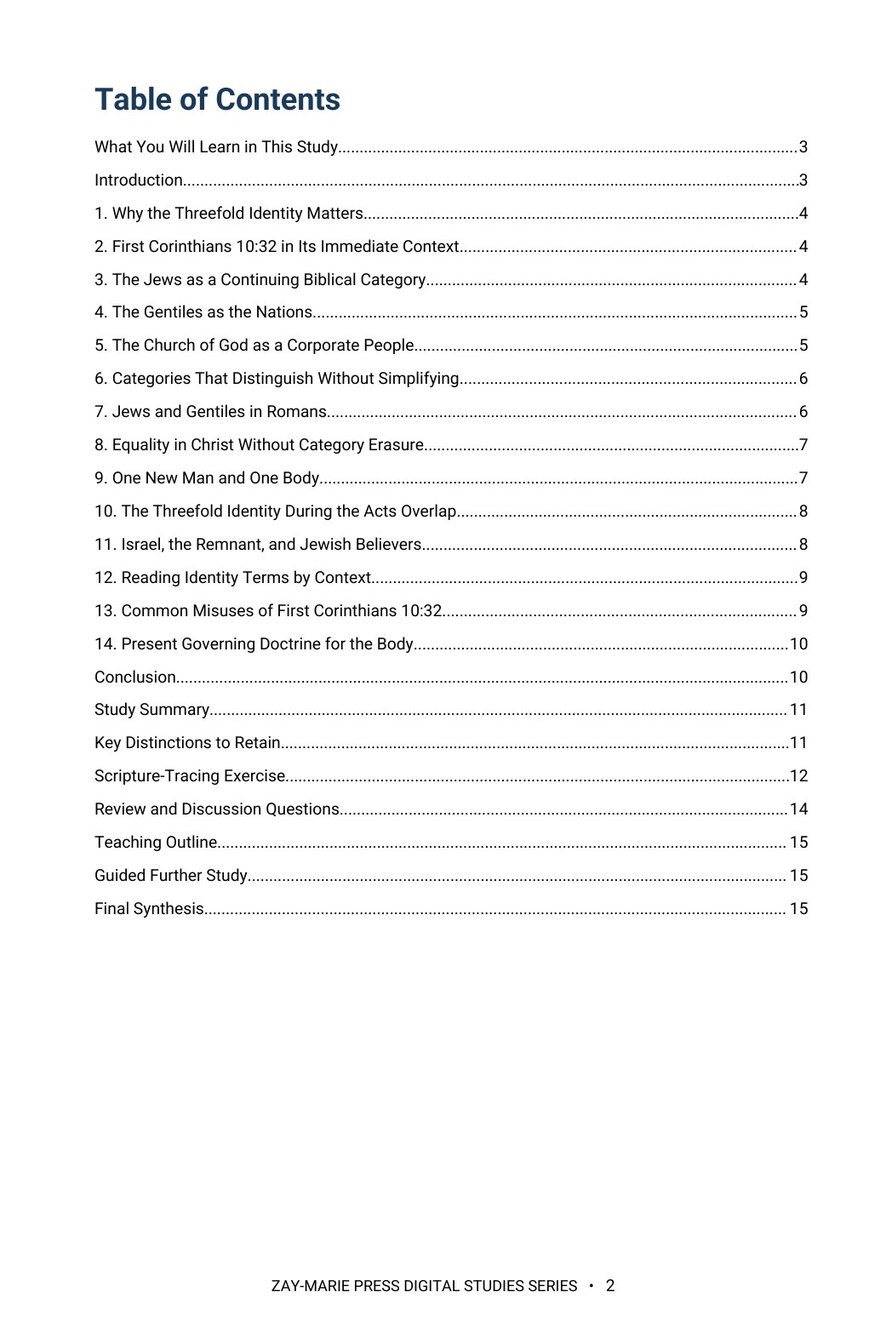
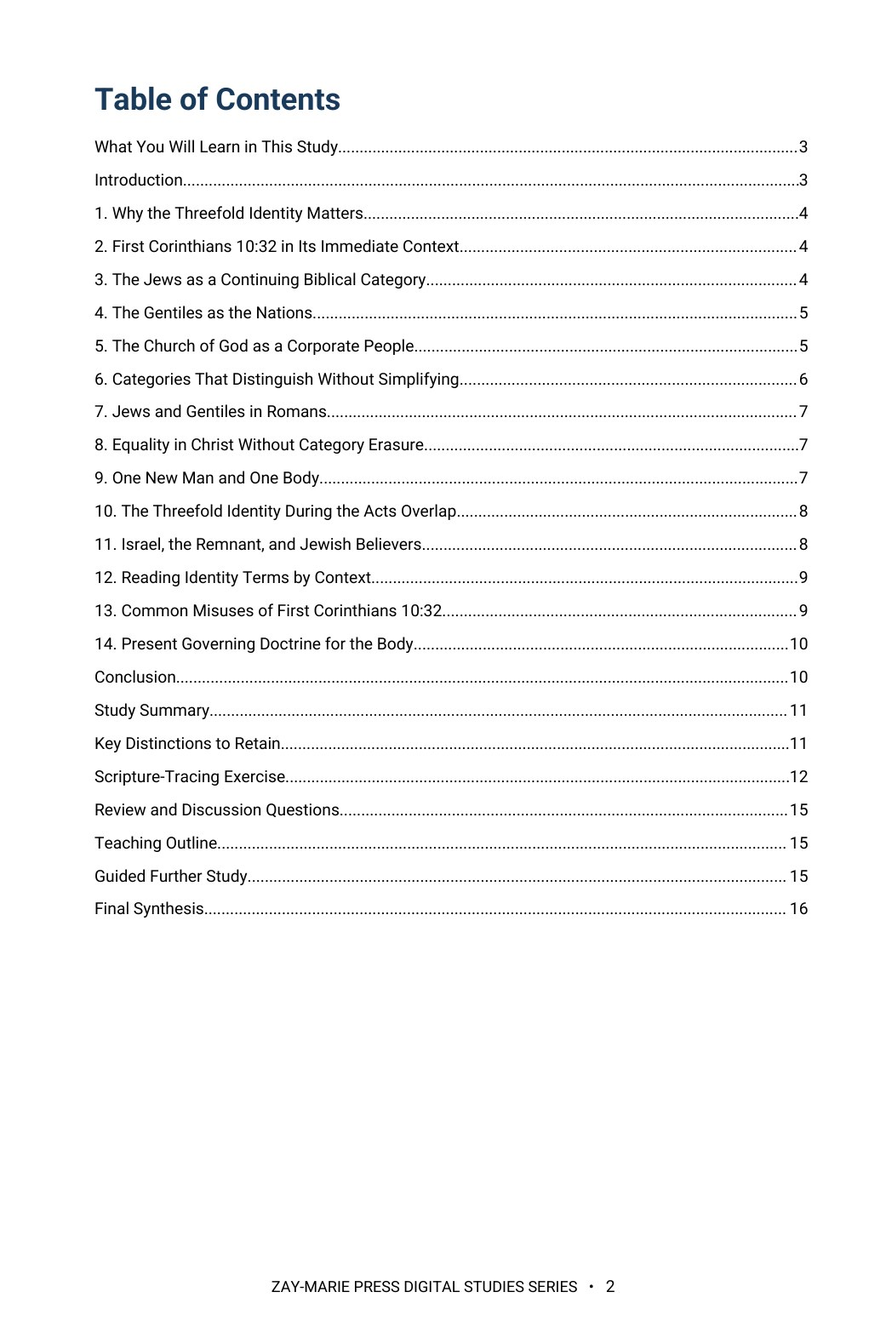
Retrofit Study 36 to the doctrinal upgrade: website text, previews; retrofit plan v1.4, audit v1.97
Claude-Session: https://claude.ai/code/session_013kzJPyMkodVfrxEZGjk3me

diff --git a/study-36-jews-gentiles-and-the-church-of-god.html b/study-36-jews-gentiles-and-the-church-of-god.html
@@ -3,10 +3,10 @@
 .study-detail-page{background:#fff;color:#252525}.detail-hero{background:linear-gradient(135deg,#f8f5ec,#e3ece2);padding:58px 0}.detail-hero-grid{display:grid;grid-template-columns:minmax(250px,.72fr) minmax(0,1.28fr);gap:58px;align-items:center}.detail-cover{max-width:390px;margin:auto}.detail-cover img{display:block;width:100%;height:auto;box-shadow:0 14px 36px rgba(8,45,69,.18)}.detail-hero h1{font-size:clamp(2.7rem,5vw,4.7rem);line-height:1.02;margin:8px 0 10px;color:#143823}.detail-subtitle{font-family:Georgia,serif;font-size:1.35rem;font-weight:700;color:#082d45;margin:0 0 7px}.detail-kicker{font-family:Georgia,serif;font-style:italic;font-size:1.05rem;color:#4a4a44;margin:0 0 22px}.detail-copy{font-size:1.08rem;line-height:1.65;max-width:760px}.detail-buyline{display:flex;align-items:center;gap:18px;flex-wrap:wrap;margin-top:25px}.detail-price{font-family:Georgia,serif;font-size:2rem;font-weight:700;color:#143823}.detail-format,.preview-card .page-no{font-family:Arial,sans-serif;font-size:.76rem;font-weight:700;letter-spacing:.1em;text-transform:uppercase;color:#176b3a}.detail-button{display:inline-block;background:#176b3a;color:#fff;padding:13px 22px;font-family:Arial,sans-serif;font-size:.8rem;font-weight:700;letter-spacing:.07em;text-transform:uppercase}.detail-button.pending{opacity:.72;cursor:default}.detail-section{padding:66px 0}.detail-section.soft{background:#f6f7f2}.detail-section.cream{background:#faf8f2}.detail-section h2{color:#143823;margin:6px 0 18px;font-size:clamp(2rem,3.4vw,3rem)}.detail-section .lead{max-width:920px;font-size:1.1rem;line-height:1.62}.study-distinction{max-width:920px;margin-top:28px;margin-bottom:28px;padding:26px 28px;background:#fff;border:1px solid #d8d1bf;border-left:4px solid #b8871c}.study-distinction h3{margin:0 0 10px;color:#143823}.study-distinction p{margin:0 0 14px;line-height:1.62}.study-distinction a{font-family:Arial,sans-serif;font-weight:700;color:#176b3a;text-decoration:none}.study-points{display:grid;grid-template-columns:repeat(3,1fr);gap:18px;margin-top:28px;margin-bottom:28px}.study-point,.scripture-card,.preview-card,.include-item{background:#fff;border:1px solid var(--line);text-align:left}.study-point{border-top:3px solid #176b3a;padding:22px}.study-point h3{color:#143823;margin:0 0 8px;font-size:1.2rem}.study-point p,.scripture-card p,.preview-card p,.include-item p{margin:0;line-height:1.55}.scripture-grid{display:grid;grid-template-columns:repeat(4,1fr);gap:14px;margin-top:24px;margin-bottom:24px}.scripture-card{padding:22px 20px;color:#143823}.scripture-card h3{margin:0 0 9px;font-family:Georgia,serif;font-size:1rem;line-height:1.35}.scripture-card p{font-size:.94rem;color:#45453f}.excerpt{max-width:900px;margin:28px auto;border-left:4px solid #b8871c;padding:10px 0 10px 28px}.excerpt blockquote{font-family:Georgia,serif;font-size:clamp(1.45rem,2.5vw,2rem);line-height:1.45;color:#143823;margin:0 0 16px}.excerpt p{line-height:1.6;margin:0}.preview-grid{display:grid;grid-template-columns:repeat(2,1fr);gap:20px;margin-top:28px;margin-bottom:28px}.preview-card{padding:18px;min-height:210px;box-shadow:0 7px 20px rgba(20,40,25,.05)}.preview-image-link{display:block;margin:0 0 18px}.preview-image-link img{display:block;width:100%;height:auto;border:1px solid #d8d1bf;box-shadow:0 8px 22px rgba(20,40,25,.1);transition:transform .18s ease,box-shadow .18s ease}.preview-image-link:hover img{transform:translateY(-2px);box-shadow:0 11px 28px rgba(20,40,25,.16)}.preview-card h3{color:#143823;margin:8px 0 10px}.preview-instruction{margin:10px 0 0;font-family:Arial,sans-serif;font-size:.78rem;letter-spacing:.04em;color:#5b5b55}.includes-grid{display:grid;grid-template-columns:repeat(4,1fr);gap:14px;margin-top:26px}.include-item{padding:22px 20px;color:#143823}.include-item h3{margin:0 0 9px;font-family:Arial,sans-serif;font-size:.86rem;line-height:1.35;letter-spacing:.02em}.include-item p{font-size:.94rem;color:#45453f}.final-buy{background:#082d45;color:#fff;border-top:4px solid #b8871c;padding:42px 48px;display:grid;grid-template-columns:1fr auto;gap:36px;align-items:center}.final-buy .eyebrow,.final-buy h2,.final-buy .detail-price{color:#fff}.final-buy h2{margin:7px 0 6px}.final-buy p{margin:0}.final-offer{text-align:center}.back-link{display:inline-block;margin-top:18px;color:#143823;font-family:Arial,sans-serif;font-weight:700;text-decoration:none}.preview-lightbox{position:fixed;inset:0;z-index:10000;display:none;align-items:flex-start;justify-content:center;background:rgba(8,22,16,.88);padding:24px;overflow:auto}.preview-lightbox.open{display:flex}.preview-lightbox img{display:block;width:auto;height:auto;max-width:none;box-shadow:0 18px 55px rgba(0,0,0,.4);background:#fff}.preview-lightbox-close{position:fixed;top:18px;right:24px;z-index:10001;width:46px;height:46px;border:1px solid rgba(255,255,255,.65);border-radius:50%;background:rgba(0,0,0,.55);color:#fff;font:32px/1 Arial,sans-serif;cursor:pointer}@media(max-width:900px){.detail-hero-grid{grid-template-columns:1fr;gap:34px}.detail-cover{max-width:330px}.study-points{grid-template-columns:repeat(2,1fr)}.scripture-grid,.includes-grid{grid-template-columns:repeat(2,1fr)}.preview-grid,.final-buy{grid-template-columns:1fr}.final-offer{text-align:left}}@media(max-width:560px){.detail-hero{padding:42px 0}.detail-section{padding:50px 0}.study-points,.scripture-grid,.includes-grid{grid-template-columns:1fr}.final-buy{padding:32px 24px}.detail-buyline{align-items:flex-start;flex-direction:column;gap:8px}.preview-lightbox{padding:58px 10px 24px}.preview-lightbox img{width:100%;max-width:100%;height:auto}}</style></head><body class="study-detail-page">
 <header class="site-header"><div class="wrap nav"><a class="logo" href="index.html" aria-label="Zay-Marie Press home"><img src="assets/zay-marie-press-logo-hq.png" alt="Zay-Marie Press" width="420" height="238"></a><button class="menu-toggle" type="button" aria-expanded="false" aria-controls="primary-nav">MENU</button><nav aria-label="Primary navigation" class="primary-nav" id="primary-nav"><a href="index.html">HOME</a><a href="books.html">BOOKS</a><a href="series.html">SERIES</a><a class="active" aria-current="page" href="digital-studies.html">DIGITAL STUDIES</a><a href="biblical-hermeneutics-course.html">COURSE</a><a href="about.html">ABOUT</a><a href="resources.html">RESOURCES</a><a href="contact.html">CONTACT</a></nav></div></header><main>
 <section class="detail-hero"><div class="wrap detail-hero-grid"><div class="detail-cover"><picture><source srcset="assets/study-36-cover.webp" type="image/webp"><img src="assets/study-36-cover.jpg" alt="Jews, Gentiles, and the Church of God cover"></picture></div><div><div class="eyebrow">STUDY 36 · DIGITAL STUDY</div><h1>Jews, Gentiles, and the Church of God</h1><p class="detail-subtitle">The Threefold Identity of 1 Corinthians 10:32</p><p class="detail-kicker">A focused examination of historical origin, corporate standing, and responsible conduct before all people</p><p class="detail-copy">First Corinthians 10:32 names Jews, Gentiles, and the Church of God within Paul’s instruction about liberty, conscience, idolatry, and avoiding needless offense. What do these categories identify, and how do they relate?</p><p class="detail-copy">This study distinguishes historical and national origin from corporate standing in Christ. It explains equal membership in one Body without erasing Israel, the nations, or the distinct apostolic lines operating during the Acts overlap.</p><div class="detail-buyline"><span class="detail-price">$5.99</span><span class="detail-format">Digital PDF · 16 Pages</span><span class="detail-button pending" aria-disabled="true">Checkout Coming Soon</span></div></div></div></section>
-<section class="detail-section"><div class="wrap"><div class="eyebrow">ABOUT THIS STUDY</div><h2>Three Meaningful Categories, One Practical Command</h2><p class="lead">Paul’s command works because Jews, Gentiles, and the Church of God are recognizable categories. Yet the verse is not a simplistic census of mutually exclusive social identities. Paul remained an Israelite by descent while belonging to Christ, and Gentile believers retained their historical origin while receiving the same corporate standing in the Body.</p><p class="lead">The study therefore asks what question each designation answers. Historical origin, national relation, corporate standing, audience, and programmatic setting must be distinguished before the verse can be applied responsibly.</p><p class="lead">This is not a study of the broad Israel–Body distinction itself, which Study 4 establishes across every point of contrast, nor of the disputed identity expressions tested in Study 35, such as “Israel of God” and “spiritual Israel.” Its task is narrower: to fix 1 Corinthians 10:32’s three named categories to Paul’s own case — an unchanged Israelite by descent who also stands in the Body — and to show that a single verse naming three groups was never meant to erase what distinguishes them.</p><div class="study-distinction"><h3>How These Studies Relate</h3><p>Study 36 reads Jews, Gentiles, and the Church of God in 1 Corinthians 10:32 and distinguishes historical origin from standing in one Body.</p><p><a href="study-04-israel-and-the-body-of-christ.html">Study 4 — Israel and the Body of Christ</a> Set these three categories within the broader corporate distinction between Israel and the Body; this explains why origin and present membership answer different questions.</p><p><a href="study-35-who-is-the-israel-of-god.html">Study 35 — Who Is the Israel of God?</a> Test contested labels such as ‘Israel of God’ against Paul’s categories instead of using one debated phrase to erase distinctions elsewhere.</p><p class="connection-guide-link"><a href="study-connections.html#study-36">Explore the full connection guide for Study 36 →</a></p></div></div></section>
+<section class="detail-section"><div class="wrap"><div class="eyebrow">ABOUT THIS STUDY</div><h2>Three Meaningful Categories, One Practical Command</h2><p class="lead">Paul’s command works because Jews, Gentiles, and the Church of God are recognizable categories. Yet the verse is not a simplistic census of mutually exclusive social identities. Paul remained an Israelite by descent while belonging to Christ, and Gentile believers retained their historical origin while receiving the same corporate standing in the Body.</p><p class="lead">The study therefore asks what question each designation answers. Historical origin, national relation, corporate standing, audience, and programmatic setting must be distinguished before the verse can be applied responsibly.</p><p class="lead">This is not a study of the broad Israel–Body distinction itself, which Study 4 establishes across every point of contrast, nor of the disputed identity expressions tested in Study 35, such as “Israel of God” and “spiritual Israel.” Its task is narrower: to fix 1 Corinthians 10:32’s three named categories to Paul’s own case — a Jew by descent who stands in the Body as a member of it, not as Israel — and to show that a single verse naming three groups was never meant to erase what distinguishes them.</p><div class="study-distinction"><h3>How These Studies Relate</h3><p>Study 36 reads Jews, Gentiles, and the Church of God in 1 Corinthians 10:32 and distinguishes historical origin from standing in one Body.</p><p><a href="study-04-israel-and-the-body-of-christ.html">Study 4 — Israel and the Body of Christ</a> Set these three categories within the broader corporate distinction between Israel and the Body; this explains why origin and present membership answer different questions.</p><p><a href="study-35-who-is-the-israel-of-god.html">Study 35 — Who Is the Israel of God?</a> Test contested labels such as ‘Israel of God’ against Paul’s categories instead of using one debated phrase to erase distinctions elsewhere.</p><p class="connection-guide-link"><a href="study-connections.html#study-36">Explore the full connection guide for Study 36 →</a></p></div></div></section>
 <section class="detail-section soft"><div class="wrap"><div class="eyebrow">WHAT YOU’LL STUDY</div><h2>Read Every Identity Term at the Right Level</h2><div class="study-points"><div class="study-point"><h3>The Immediate Context</h3><p>Place 1 Corinthians 10:32 within Paul’s teaching on liberty, conscience, idolatry, edification, and avoiding needless offense.</p></div><div class="study-point"><h3>Jews and Gentiles</h3><p>Define Israel’s continuing historical category and the nations outside Israel without making natural origin a basis of spiritual rank.</p></div><div class="study-point"><h3>The Church of God</h3><p>Identify the called corporate people addressed in Paul’s Mystery apostleship and their unity as one Body in Christ.</p></div><div class="study-point"><h3>Origin and Standing</h3><p>Compare what Paul says about Jewish or Gentile background with what he says about the believer’s corporate standing.</p></div><div class="study-point"><h3>Equality Without Erasure</h3><p>Read Galatians 3 and Ephesians 2 without turning equal standing into the disappearance of every historical or programmatic distinction.</p></div><div class="study-point"><h3>The Acts Overlap</h3><p>Trace how Acts 9–28 and Galatians 2:7–9 frame the Prophecy and Mystery programs and the assignments of Peter and Paul.</p></div></div></div></section>
 <section class="detail-section cream"><div class="wrap"><div class="eyebrow">KEY SCRIPTURES</div><h2>Follow Paul’s Categories Across the Argument</h2><div class="scripture-grid"><div class="scripture-card"><h3>1 Corinthians 8–10</h3><p>Liberty is governed by love, conscience, edification, God’s glory, and another person’s spiritual good.</p></div><div class="scripture-card"><h3>1 Corinthians 10:32</h3><p>Jews, Gentiles, and the Church of God are named within one practical command.</p></div><div class="scripture-card"><h3>1 Corinthians 12:12–13</h3><p>Jewish and Gentile believers are identified by one Spirit into one Body.</p></div><div class="scripture-card"><h3>Romans 3:9, 29–30</h3><p>Jews and Gentiles share guilt and the need for justification without losing their designations.</p></div><div class="scripture-card"><h3>Romans 9–11</h3><p>Israel, the faithful remnant, and Gentiles remain distinguishable within Paul’s programmatic argument.</p></div><div class="scripture-card"><h3>Galatians 3:26–29</h3><p>Equal standing in Christ removes status-based superiority without erasing every distinction.</p></div><div class="scripture-card"><h3>Ephesians 2:11–18</h3><p>Christ reconciles both in one new man and one Body rather than turning either former group into the other.</p></div><div class="scripture-card"><h3>Galatians 2:7–9</h3><p>Peter and Paul represent two distinct apostolic lines operating concurrently during the Acts overlap.</p></div></div></div></section>
-<section class="detail-section"><div class="wrap"><div class="eyebrow">FROM THE STUDY</div><h2>Historical Origin and Corporate Standing</h2><div class="excerpt"><blockquote>“A Jewish believer may retain Jewish descent while possessing a new corporate identity in the Body. A Gentile believer may retain Gentile origin while possessing the same standing in Christ.”</blockquote><p>The descriptions answer related but different questions. Equality in Christ removes every claim to spiritual superiority without making Israel, the nations, or the Body meaningless categories.</p></div></div></section>
+<section class="detail-section"><div class="wrap"><div class="eyebrow">FROM THE STUDY</div><h2>Historical Origin and Corporate Standing</h2><div class="excerpt"><blockquote>“A Jewish believer may retain Jewish descent as a historical fact while possessing a new corporate identity in the Body, and is not Israel. A Gentile believer may retain Gentile origin while possessing the same standing in Christ.”</blockquote><p>The descriptions answer related but different questions. Equality in Christ removes every claim to spiritual superiority without making Israel, the nations, or the Body meaningless categories.</p></div></div></section>
 <section class="detail-section soft"><div class="wrap"><div class="eyebrow">A LOOK INSIDE</div><h2>Preview the Study Before You Purchase</h2><p class="preview-instruction">Click any page to enlarge it for reading.</p><div class="preview-grid"><div class="preview-card"><a class="preview-image-link" data-preview-lightbox href="assets/study-36-page-2.jpg"><img src="assets/study-36-page-2.jpg" alt="Study 36 interior preview — page 2, table of contents"></a><div class="page-no">Page 2</div><h3>Table of Contents</h3><p>See the study’s full structure and scope at a glance.</p></div><div class="preview-card"><a class="preview-image-link" data-preview-lightbox href="assets/study-36-page-3.jpg"><img src="assets/study-36-page-3.jpg" alt="Study 36 interior preview — page 3, learning outcomes, Study Goal, and Study Outline"></a><div class="page-no">Page 3</div><h3>Learning Outcomes and Study Goal</h3><p>Begin with the questions, passages, and interpretive controls that govern the study.</p></div><div class="preview-card"><a class="preview-image-link" data-preview-lightbox href="assets/study-36-page-5.jpg"><img src="assets/study-36-page-5.jpg" alt="Study 36 interior preview — page 5, the Jews, the Gentiles, and a category table"></a><div class="page-no">Page 5</div><h3>The Jews and the Gentiles in Paul’s Usage</h3><p>See how each term is defined from Paul’s own wording and set beside what it does not guarantee.</p></div></div></div></section>
 <section class="detail-section"><div class="wrap"><div class="eyebrow">WHAT’S INCLUDED</div><h2>A Focused Study Built for<br>Doctrinal Precision and Responsible Application</h2><div class="includes-grid"><div class="include-item"><h3>Focused Biblical Study</h3><p>A sustained examination of 1 Corinthians 10:32 and the identity questions that surround Paul’s threefold designation.</p></div><div class="include-item"><h3>Fourteen Teaching Sections</h3><p>Move from the immediate context through Romans, Galatians, Ephesians, the Acts overlap, and present doctrine.</p></div><div class="include-item"><h3>Contextual Exegesis</h3><p>Examine named audiences, argument, historical origin, corporate standing, and programmatic setting.</p></div><div class="include-item"><h3>High-Contrast Tables</h3><p>Compare categories, questions, designations, and controls without simplifying or collapsing identity.</p></div><div class="include-item"><h3>Scripture-Tracing Exercise</h3><p>Trace Jew, Gentile, Church of God, one Body, remnant, and apostolic line across the principal passages.</p></div><div class="include-item"><h3>Review Questions</h3><p>Test the difference between equality, origin, standing, audience, participation, and corporate identity.</p></div><div class="include-item"><h3>Teaching Outline</h3><p>Use a ready framework for teaching the verse, defining the categories, testing unity language, and applying the doctrine.</p></div><div class="include-item"><h3>Guided Further Study</h3><p>Grouped investigations support deeper work in Corinthians, Romans, Galatians, Ephesians, and the Acts overlap.</p></div></div></div></section>
 <section class="detail-section cream"><div class="wrap"><div class="final-buy"><div><div class="eyebrow">STUDY 36 · DIGITAL STUDY</div><h2>Jews, Gentiles, and the Church of God</h2><p>Digital PDF · 16 Pages · For personal use</p></div><div class="final-offer"><div class="detail-price">$5.99</div><span class="detail-button pending" aria-disabled="true">Checkout Coming Soon</span></div></div><a class="back-link" href="digital-studies.html">← Back to All Digital Studies</a></div></section><section class="study-method-course-bridge"><div class="wrap"><div class="study-method-course-panel"><div><div class="eyebrow">BUILD THE INTERPRETIVE METHOD</div><h2>Want More Than a Focused Study?</h2><p>Digital Studies examine particular biblical subjects and difficult passages. The 40-lesson Biblical Hermeneutics course teaches a complete, repeatable method for establishing meaning in context, determining proper assignment, and making responsible application.</p></div><a class="btn btn-primary" href="biblical-hermeneutics-course.html">BIBLICAL HERMENEUTICS COURSE</a></div></div></section></main>

diff --git a/CLAUDE.md b/CLAUDE.md
@@ -14,7 +14,7 @@ These are kept in the repo at `controlling-documents/` and are the current versi
 - **`controlling-documents/Zay-Marie_Press_Digital_Studies_Master_Standard_v1.41.pdf`** — Master Standard v1.41 (an editable `.docx` copy sits beside the PDF). Governs study structure, cover, PDF assembly, website package and publication (includes §16 Individual Study Preview Selection Standard). §16 fixes the preview set at exactly three pages: Table of Contents, What You Will Learn, and one further page of real substance that does not give away the study's thesis. As of v1.19, §2 (Forward Cover System) adds a Cover Art Brief step: Claude drafts a detailed written cover art description (image concept, composition, palette, lighting, symbolic content) for the publisher to hand to the illustrator, before the illustrator produces artwork — see Approval Checkpoint 3 below. As of v1.20, §6 (Body-Content Standard) fixes exact interior spacing values: body paragraphs 6pt space-after / 0pt space-before / 1.08 line spacing; Heading 1 14pt space-before / 8pt space-after; Heading 2 10pt space-before / 5pt space-after. As of v1.21, §9 (Content-Depth and Page-Length Standard) fixes the substantive-interior page count at exactly 15 pages, replacing the prior 13–17 page range; matching references updated in the Page-Count Control note (§3) and Stages 2 and 4 of the Study Development and Approval Workflow (§14). As of v1.22, §18 (About This Study — Related-Study Distinction Standard, originally added as §17 and renumbered by v1.24) requires a second paragraph in every study's About This Study section, placed before the "How These Studies Relate" box: it names the specific neighbouring studies a reader might confuse this one with, states what ground each one covers that this study doesn't (or vice versa), and closes with the single narrower question this study alone answers — see the "About This Study" bullet below. Governs new studies going forward; existing studies get it when reopened or when the publisher directs a retrofit. As of v1.23, §13 (Tables Symbols and Contrast Standard) changes the table-header treatment from dark navy to Slate Blue (#3B6E91) with high-contrast light text retained; the border-color cross-reference in the same section is updated to match. Applies to all studies going forward. As of v1.24, new §17 (Preview-Page Interpretive-Outcome Standard) codifies the publisher's 2026-09-28 preview-page conclusion-spoiler directive (see the section below) as a Master Standard requirement: preview pages must state interpretive outcomes and name the textual markers the reader will trace, never the study's doctrinal conclusion. Adding it renumbered the former §17/§18/§19 to §18 (About This Study), §19 (Locked Status), and §20 (Version History). As of v1.25 (publisher directive, 2026-09-28), §5 (Table of Contents Standard) requires Arabic numerals only — Roman numerals are never used in a Table of Contents — and a single flat list on one left-aligned axis: What You Will Learn in This Study, Introduction, the teaching sections numbered exactly as in the body, then Conclusion through Final Synthesis; Study Goal and Study Outline are not TOC entries. As of v1.26 and v1.27 (publisher directive, 2026-09-30), §8 (renamed Color and Typography Control) carries the Interior Typeface Standard: every Digital Study interior and Doctrinal Packet, headings included, is set in **Roboto** in four true faces (Regular, Italic, Bold, Bold Italic; static files; lining numerals), with no other or fallback font embedded. v1.26 first specified EB Garamond; the publisher replaced it with Roboto in v1.27 after a Study 2 test build. It applies to all studies past, present and future, and to Doctrinal Packets; Stages 3 and 4 of §14 require it and a `pdffonts` check. Existing studies move to it when reopened or when the publisher directs. The static Roboto files and the build recipe are in `fonts/` (see `fonts/README.md`); the Framework carries the rule as PAM Rule 6 and a dated Section 4 (continued) entry. The v1.26/v1.27 files were rebuilt from the publisher's v1.13 DOCX (Sections 1–2) plus the v1.25 text. As of v1.28 (publisher directive, 2026-09-30): §4 requires exactly five callouts per study, all boxed (light-blue box, 1 pt dark navy border, bold uppercase navy title; extra source callouts become body paragraphs with a bold run-in lead, wording unchanged); §10 places the copyright notice only in the end imprint, with no front copyright page; §13 makes table body rows plain white under Slate Blue headers. As of v1.29 (publisher directive, 2026-09-30), §5 sets Table of Contents entries at the body-paragraph spacing (6 pt after, 1.08 line spacing) as first shown in Study 5, for studies built from Study 6 forward; Studies 1–5 and 9 keep their current TOC spacing unless reopened. As of v1.30 (publisher directive, 2026-09-30), §6 sets Heading 1 (numbered major sections) at 12 pt space-before and 8 pt space-after, replacing 14 pt space-before, as compared side by side on Study 6 page 5; it applies to studies built from Study 6 forward, and Studies 1–5 and 9 (built at 14 pt) are not reopened for it. Heading 2 (10/5) and body paragraphs (6 pt after, 1.08) are unchanged. As of v1.31 (publisher directive, 2026-10-01), new §19 (Catalog Category Standard) fixes the five catalog categories, the ordered decision procedure, the precedents, the 71 final assignments and the cover-label forms (working copy and version history in `controlling-documents/Digital_Studies_Category_Standard_v1.1.md`); Locked Status and Version History moved to §20 and §21. As of v1.32 (publisher directive, 2026-10-01), the upper-right cover label must be the exact name of the study's catalog category (§2 Cover Architecture and §19 Cover Labels); the shortened and legacy labels RIGHT DIVISION, PROPHECY, DOCTRINE, INTERPRETATION and BIBLICAL DOCTRINE are retired and all 71 covers were re-lettered. As of v1.33 (publisher directive, 2026-10-01), new §20 (Doctrinal Drafting Standard) carries PAM Rules 7–10 from the Framework so settled rulings are applied without being asked again: identity wording ("the Israel of God" = believing Jews within the Body, Israel by identity; never "believing Israel" alone; never a remnant beside or outside the Body in the present administration; required clarifier "This speaks of identity, not program membership; the remnant is ethnic-covenantal, and believing Jews are gathered into the Body during the Mystery administration"; Gentiles participate spiritually, never called Israel or "spiritual Israel"); the anchoring-sentence rule for books the PAM does not assign (Hebrews, Revelation, James, 1 Peter, 2 John; Philippians, 1 Thessalonians, 2 Timothy; Gal 2:1–10 report-only); standing wording for the Acts divisions, "the 'one taken, one left' passages", Eph 2:14 "abolished for the Body", judgment and related rulings; and the review procedure (conforming wording is applied and noted in one line, and only a new or uncovered passage is reported for a ruling). Locked Status and Version History moved to §21 and §22. As of v1.34 (publisher directive, 2026-10-01), Rule 7 adds the overlap-period rule: Peter's believing company and the circumcision apostleship during Acts 9–28 may be described as continuing under the Prophecy Program only with the clarification "During the overlap, the circumcision apostleship ministers to Israel under the Prophecy Program; believing Jews are gathered into the Body through Paul's ministry, and this speaks of identity, not program membership" (program membership and corporate identity are not the same question; no believing Israelite is placed outside the Body after Acts 9). As of v1.35 (publisher directive, 2026-10-01), §20 adds Rule 11: Paul's fillings, signs and miraculous events in Acts 9–28 are overlap phenomena, reported from the text and not assigned to a single program; they occur in settings shaped by Israel's Prophecy Program, but Paul's participation does not convert them into Prophecy Program content or make them Mystery content (standing wording: "These are recorded in settings shaped by Israel's Prophecy Program, which remained operative throughout Acts 9–28 even as the Mystery Program began. Acts 9–28 is the overlap; where Paul or his companions are the ones filled or working signs, the study reports the text and does not assign the event to a single program."; Acts table column title "The Spirit's Activity Recorded in Acts"; speaker identity is not program identity, and historical participation is not doctrinal obligation). Rule 10 refers to Rules 1–9 and 11. As of v1.36 (publisher directive, 2026-10-01), §20 adds Rule 12: where the PAM does not assign a book or passage, the study may use the text for universal doctrinal truth without assigning the book to a program, and must include the anchoring sentence "The Framework does not assign this book; this reading rests on the passage's own audience markers and setting." (it extends Rule 8 to unassigned books and passages Rule 8 does not name); Rule 10 refers to Rules 1–9, 11 and 12. As of v1.41 (publisher directive, 2026-10-02), Rules 7 and 15 carry two approved standing sentences for the retrofit: overlap — "During the overlap, the circumcision apostleship ministers to Israel under the Prophecy Program, and Paul's gospel forms the Body; the two operate concurrently and never merge, transfer or absorb one another." (replaces the withdrawn "gathered into the Body" sentence); Galatians 3 — "The seed is prophetic fulfillment in Christ; the Body receives blessing through Christ alone, not through participation in the Abrahamic covenant." (replaces all older Abrahamic-participation language). As of v1.40 (publisher directive, 2026-10-02), Rules 7 and 17 add the ruling that a Jewish member of the Body is not Israel: Body by identity, new creation by ontology, non-Israel by corporate identity, non-prophetic by program membership, non-covenantal by blessing structure, heavenly by destiny; ethnicity is a historical fact with no covenantal or programmatic force once a person is in the Body. The Rule 7 line "Israel remains Israel; the ethnic distinction is kept" is replaced by "Israel remains Israel, and the Body is not Israel"; the Framework identity sections (§V, PAM definition 2) carry it too. As of v1.39 (publisher directive, 2026-10-02), §20 adds Rule 17 (The remnant and the Body during Acts 9–28), also written into the Framework §XIX: the remnant never becomes the Body and stays outside the Body, the Mystery Program, the heavenly calling and Pauline identity; the Body is formed only by Paul's gospel from Acts 9, is gathered in on belief and is not Israel or the remnant; no shared identity, membership, covenant, gospel, hope, Spirit ministry or destiny; the standing summary sentence ("During Acts 9–28, the remnant remains Israel's prophetic believing company, and the Body remains the Mystery new creation. They coexist historically but never merge in identity, membership, calling, covenant, gospel, hope, or destiny. Concurrency is operational, not transformational.") and the one-sentence relationship rule are used wherever the relationship is stated; Rule 10 now reads "Rules 1–9 and 11–17". As of v1.38 (publisher directive, 2026-10-02), §20 (Doctrinal Drafting Standard) is amended and extended to carry the Framework's doctrinal upgrade: Rules 7–10 are rewritten and Rules 13–16 are added (see the Framework entry above for the points and the withdrawn wordings); Rule 10 now reads "Rules 1–9 and 11–16"; Rule 8 no longer lists Revelation as unassigned. As of v1.37 (publisher directive, 2026-10-02), a new "Study 52 Reference Standard" subsection in §6 makes Study 52 (Sonship and Adoption) the **golden standard** for the format, structure and blue/black type balance of every Digital Study from Study 53 forward: navy (#1B3350) only on major-section headings (Roboto Bold 17 pt), callout titles (10 pt bold caps) and the "Study Outline" sub-heading (12 pt bold); everything else black Roboto Regular 9 pt; numbered subsections (1.1, 1.2 …) are body-weight black lines at body spacing, not navy headings (as in Studies 50, 51 and 52); about 1–2% of interior characters navy; the section order, five boxed callouts, KJV tables (Verse / KJV text / What to observe), Scripture-Tracing, Review, Teaching Outline, Guided Further Study, Final Synthesis and single end imprint on a 16-page build. Studies 1–51 are NOT retrofitted and stay as published; build every new study to Study 52's final approved PDF/DOCX as the visual reference, and do not set subsections in navy. The §6 Heading 2 line was clarified (10/5 applies to unnumbered sub-headings such as "Study Outline"). See §22 Version History in the document itself.
 - **`controlling-documents/Digital_Studies_Relationship_Map_v1.39.md`** — records each study's distinct subject, its related studies, the eight priced six-study collections, the Paul's Missionary Journeys cross-reference map, and the five primary catalog categories (currently version 1.39, covers Studies 1–71; update it as new studies publish, bump the version number, rename the file to match, and log the change in its own version-history table — mirroring the Master Standard's `_vX.Y` filename convention). Check a proposed topic against it before recommending or writing a new study. (2026-09-28: the file was missing from this repo despite this note referencing it; replaced from the publisher's copy and bumped v1.15→v1.25 in the same pass. If this note ever again points to a version not present under `controlling-documents/`, ask the publisher for a copy rather than proceeding without the check.)
 - **`controlling-documents/Digital_Studies_Category_Standard_v1.1.md`** — FINAL and binding (publisher, 2026-10-01): the rules for the five primary catalog categories (Foundations, Israel & Prophecy, Body of Christ, Passages, Doctrinal Themes), the ordered decision procedure for new studies, the precedents, all 71 fixed assignments, and the cover-label form for each category. Read it before placing any card or cover label. Do not ask the publisher where a study belongs; apply the procedure and state the result. Only the publisher changes a ruling; then bump this Standard's version and filename, re-letter the cover, and update the Relationship Map.
-- **`controlling-documents/Doctrinal_Upgrade_Retrofit_Plan_v1.3.md`** — working tracker for retrofitting Studies 1–59 to the 2026-10-02 doctrinal upgrade (Framework/PAM v1.1, Master Standard v1.40, Rules 7–17): withdrawn-wording search keys, impact tiers, waves and the per-study method. Read it before continuing the retrofit in any session; update status, bump the version and rename the file as work proceeds.
+- **`controlling-documents/Doctrinal_Upgrade_Retrofit_Plan_v1.4.md`** — working tracker for retrofitting Studies 1–59 to the 2026-10-02 doctrinal upgrade (Framework/PAM v1.1, Master Standard v1.40, Rules 7–17): withdrawn-wording search keys, impact tiers, waves and the per-study method. Read it before continuing the retrofit in any session; update status, bump the version and rename the file as work proceeds.
 - **`controlling-documents/Doctrinal_Packet_Standard_v0.3.md`** — Doctrinal Packet Standard (DRAFT; §7 approved). Governs the separate Doctrinal Packets product strand (5-page interpretive PDFs per Bible book — a print-friendly cover as page 1 plus 4 content pages, $2.99, KJV, pilot: Genesis, live at `packet-genesis.html`, hub `doctrinal-packets.html`; site pages say "5 Pages", cover styles live in `packets.css`, Old Testament blue and New Testament soft pale green, hub listed in Bible order). **Preview rule (publisher directive, 2026-09-29, packets only):** previews show about one page's worth in two cropped views (top of page 1 through the anchor texts; the chart section) — never the exegesis, architecture, Mystery contrast, logic chain, outline, or closing. Master Standard §16/§17 still govern Digital Studies. Bump the version and rename the file as the Standard is finalized.
 - **`controlling-documents/Preview_Page_Spoiler_Retrofit_Audit_v1.4.md`** — working tracker for the Studies 1–60 preview-page conclusion-spoiler retrofit (see the section below). Read it before continuing that audit in any session; update its status fields and changelog, bump the version, and rename the file to match as the audit proceeds — same `_vX.Y` convention as the other controlling documents. As of v1.1, the website-side half was DONE: all 60 studies' "What You'll Study" text was judged against the rule (methodology documented in the file) and 22 points across 11 studies were rewritten and pushed; an unrelated Study 22 content bug (Study 21's content had leaked into it) was also found and fixed. As of v1.2, the publisher supplied Studies 1–60's interior production PDFs and the interior-PDF half was also surveyed (read-only): 10 studies (37, 41, 45, 47, 48, 49, 51, 52, 53, 54) were found to have at least one interior "What You Will Learn" violation, 50 studies were confirmed compliant, and the orphaned `assets/study-45-sanctification-under-grace.docx` (removed from the repo per the publisher in v1.0) was confirmed word-for-word identical to Study 45's actual production interior PDF content. As of v1.3, the publisher supplied editable DOCX sources for all 10 violating studies; all 15 violating points were rewritten and approved, delivered as corrected final PDFs, and — along the way — a second defect was found and fixed (Studies 47 and 48's source DOCX still had an unintegrated cover placeholder despite both being long-published live with real covers; fixed by inserting the existing approved cover art). The website's "What You Will Learn" preview image (`study-NN-page-3.jpg`) was regenerated from the corrected content for all 10 studies and pushed to `main` (commit `cea1859`), verified against a fresh clone. **The website side of this audit is now fully compliant for all 60 studies.** Outstanding: the publisher's purchasable interior PDF files themselves have corrected versions delivered, but distribution to existing purchasers was decided by the publisher on 2026-09-29: silent swap of the files behind the existing downloads, no reissue notice (recorded in the v1.4 changelog entry; the product files are not in this repo).
 

diff --git a/controlling-documents/Digital_Studies_PAM_Audit_v1.97.md b/controlling-documents/Digital_Studies_PAM_Audit_v1.97.md
@@ -326,3 +326,4 @@ Study 15 PDF not yet supplied. Typography: none of Studies 2, 3, 6, 8 is in EB G
 - v1.94 (2026-10-02): Publisher approved the retrofit plan and the two standing sentences (overlap; Galatians 3). Written into Rules 7 and 15, Framework §XIX, Master Standard v1.41, CLAUDE.md; retrofit plan v1.1. Publisher will send DOCX for Studies 35, 9, 36, 37, 11, 13 first.
 - v1.95 (2026-10-02): Study 35 retrofitted to the doctrinal upgrade and published: Galatians 6:16 'the Israel of God' read as believing Jews within Israel's prophetic identity, not members of the Body; Romans 11:1–5 ruling (a) (Paul cites his descent as historical fact and is not placed in the Prophecy remnant); Olive Tree Firewall in section 13 (retitled 'Why Participation Does Not Create Shared Identity'); Galatians 3 standing sentence; three KJV tables added (16 pages, Roboto only). Website hero, About, What You'll Study points 5–6, Key Scripture cards, excerpt, What's Included, catalog card and three preview images updated. Withdrawn wording removed. Retrofit plan v1.2.
 - v1.96 (2026-10-02): Study 9 retrofitted and published: withdrawn 'gathered into the Body', 'every saved Jew', Gal 6:16-as-Body and 'identity, not program membership' wording removed; standing overlap, Rule 17 and permanent-membership sentences added; Acts 28 reads as national suspension of Prophecy's operation, membership unchanged; Acts 1–8 row added; Paul's descent cited as historical fact, not placed in the Rom 11:5 remnant; Olive Tree Firewall and Rom 11:25 ruling; Body absent from Revelation, Daniel's 70th week, Day of the Lord; Hebrews anchoring sentence; Rom 4 Christ-alone sentence. To keep 16 pages one redundant paragraph in section 7 (consistent-with-the-remnant-principle) and short passages in the Note section and Cornelius/Acts 28 sentences were trimmed. Website 'What You'll Study' point 3, Acts 28 card, and previews (pp. 2, 3, 8) updated. Retrofit plan v1.3.
+- v1.97 (2026-10-02): Study 36 retrofitted and published: the withdrawn 'gathered into the Body / identity, not program membership' clarifier removed from five places and replaced with the standing overlap sentence and Rule 17 wording; Review Question 10 no longer frames the remnant as an identity category and the Body as an administrative one; 'a Jewish member of the Body is not Israel' ruling added (block 93, Paul sentences, Category Control callout); Paul not placed in the Romans 11:5 remnant; Romans 11:13 Gentiles are prophetic participants, not Body Gentiles (Olive Tree Firewall); Galatians 3 standing sentence; Eph 2:14 'abolishes the enmity for the Body'; Acts 1–8 Prophecy only and Acts 28 judicial suspension with membership unchanged; Rule 11 signs sentence. Still 16 pages, no trimming. Website About line and From-the-Study quote updated; previews pp. 2, 3, 5 re-rendered. Retrofit plan v1.4.

diff --git a/controlling-documents/Doctrinal_Upgrade_Retrofit_Plan_v1.4.md b/controlling-documents/Doctrinal_Upgrade_Retrofit_Plan_v1.4.md
@@ -23,7 +23,7 @@ Working tracker for correcting published studies to the Framework/PAM v1.1, Mast
 |---|---|---|
 | 35 Who Is the Israel of God? | Whole subject is Gal 6:16; ruled "within the Body"; website 12 hits | DONE 2026-10-02 (v1.2): interior rebuilt (16 pp, Roboto), website text, catalog card and 3 previews updated; Gal 6:16 = believing Jews within Israel's prophetic identity, Rom 11:1–5 ruling (a), Olive Tree Firewall |
 | 9 The Remnant | "after Acts 28 every saved Jew stands in the Body" ruling; clarifier; Gal 3 | DONE 2026-10-02 (v1.3): interior corrected in place (16 pp, Roboto), website points/card and 3 previews updated |
-| 36 Jews, Gentiles, and the Church of God | Rule 7 origin study; clarifier added | pending |
+| 36 Jews, Gentiles, and the Church of God | Rule 7 origin study; clarifier added | DONE 2026-10-02 (v1.4): interior corrected in place (16 pp, Roboto), website About line, quote and 3 previews updated |
 | 37 What Does Paul Mean by "New Creation"? | Gal 6:16 sentence | pending |
 | 49 The Resurrections of Scripture | clarifier ×4 in DOCX | pending |
 | 41 Kingdom of God or Kingdom of Heaven? | clarifier added | pending |
@@ -61,3 +61,4 @@ Working tracker for correcting published studies to the Framework/PAM v1.1, Mast
 
 - v1.2 (2026-10-02): Study 35 retrofit complete (review copy and website package approved by publisher). Next: Study 9.
 - v1.3 (2026-10-02): Study 9 retrofit complete. Next: Study 36.
+- v1.4 (2026-10-02): Study 36 retrofit complete. Next: Study 37.
